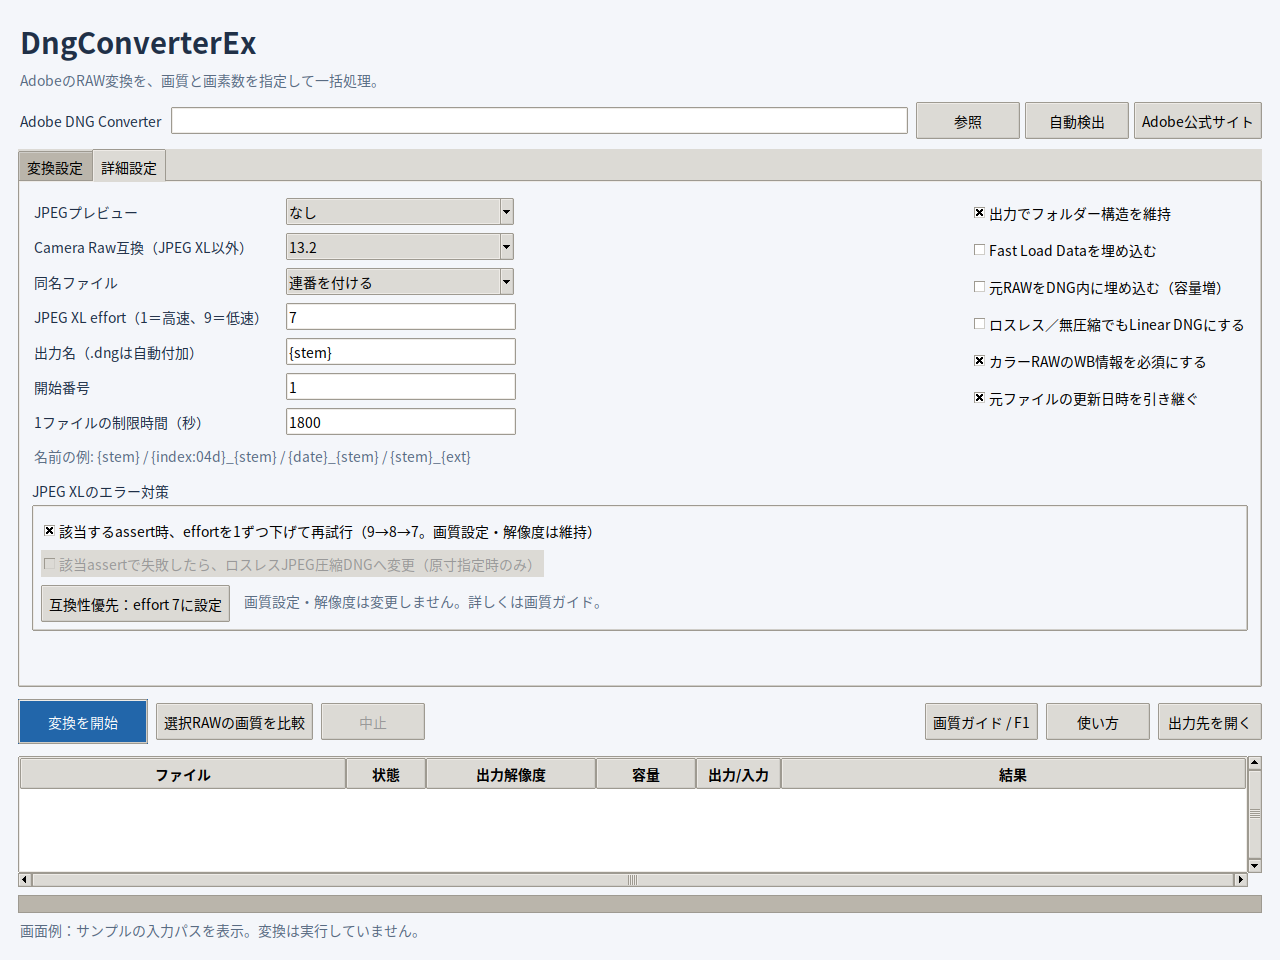
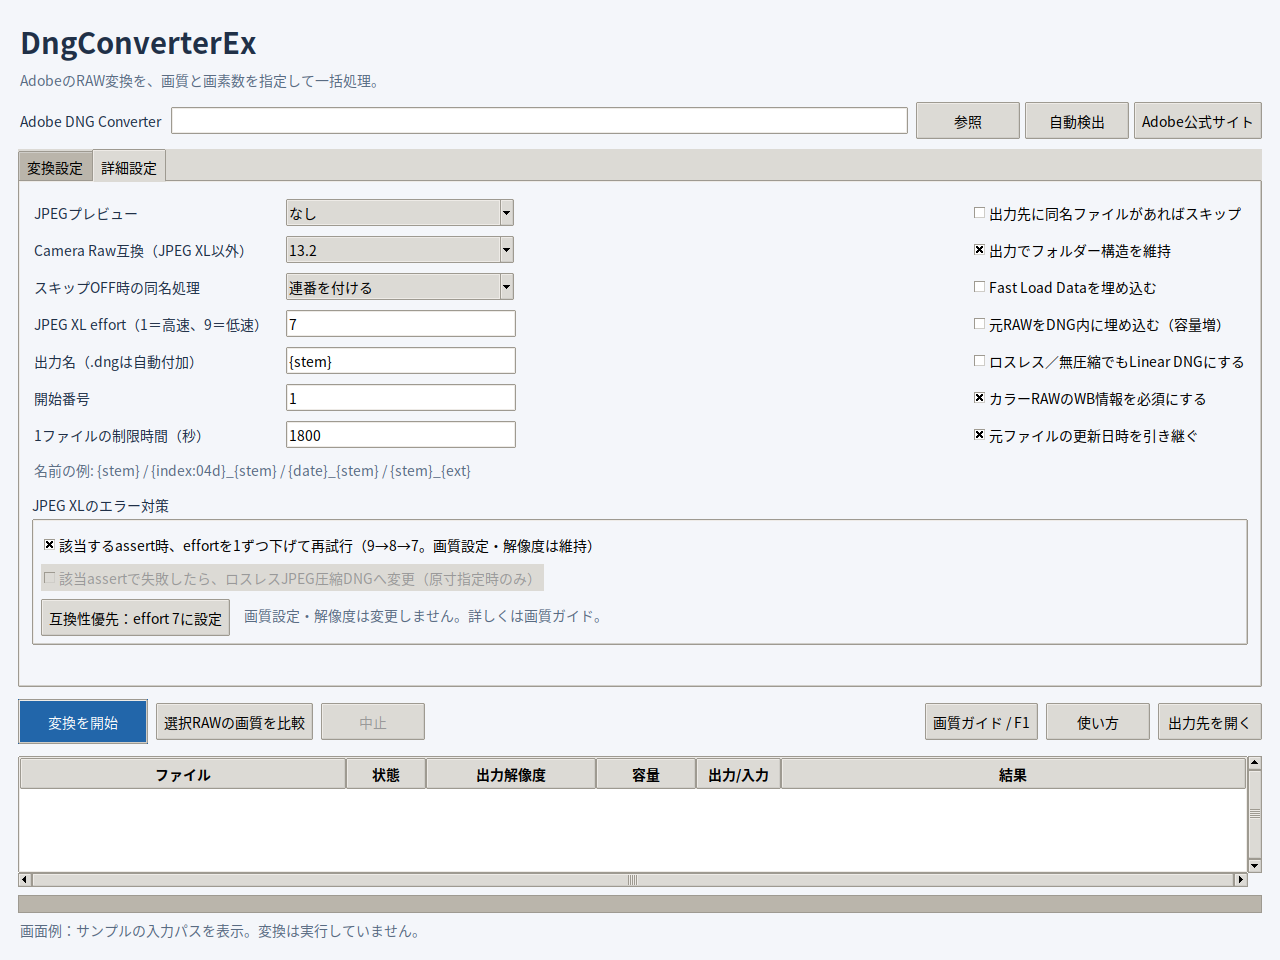
Add a checkbox to skip existing output files
Expose existing-output skipping in advanced settings. Preserve the selected rename/overwrite policy while skip is enabled, disable that selector, save the checkbox state, and migrate legacy skip preferences.

Update the offline guide, README and actual advanced-settings screenshot for v1.2.2. Verified 35 simulated conversion/metadata tests, including skipping without launching conversion and continuing the batch, plus actual Tkinter checkbox, preference and migration checks on Linux.

diff --git a/raw_to_dng/gui.py b/raw_to_dng/gui.py
@@ -84,6 +84,7 @@ class Application:
         self.linear = tk.BooleanVar(value=False)
         self.strict_wb = tk.BooleanVar(value=True)
         self.preserve_mtime = tk.BooleanVar(value=True)
+        self.skip_existing = tk.BooleanVar(value=False)
         self.jxl_retry = tk.BooleanVar(value=True)
         self.jxl_fallback = tk.BooleanVar(value=False)
         self.hint = tk.StringVar()
@@ -221,10 +222,13 @@ class Application:
         advanced.columnconfigure(1, weight=1)
         rows = (("JPEGプレビュー", self.preview, ("なし", "中サイズ", "全画素")),
                 ("Camera Raw互換（JPEG XL以外）", self.compatibility, COMPATIBILITIES),
-                ("同名ファイル", self.collision, ("連番を付ける", "スキップ", "上書き")))
+                ("スキップOFF時の同名処理", self.collision, ("連番を付ける", "上書き")))
         for row, (text, variable, values) in enumerate(rows):
             ttk.Label(advanced, text=text).grid(row=row, column=0, sticky="w", padx=(0, 16), pady=4)
-            self._combo(advanced, variable, values, 26).grid(row=row, column=1, sticky="w", pady=4)
+            widget = self._combo(advanced, variable, values, 26)
+            widget.grid(row=row, column=1, sticky="w", pady=4)
+            if variable is self.collision:
+                self.collision_widget = widget
         for row, (text, variable) in enumerate((("JPEG XL effort（1＝高速、9＝低速）", self.effort),
                                                ("出力名（.dngは自動付加）", self.name_template),
                                                ("開始番号", self.start_index), ("1ファイルの制限時間（秒）", self.timeout)), 3):
@@ -236,13 +240,18 @@ class Application:
         ttk.Label(advanced, text="名前の例: {stem} / {index:04d}_{stem} / {date}_{stem} / {stem}_{ext}", style="Muted.TLabel").grid(row=7, column=0, columnspan=2, sticky="w", pady=4)
         checks = ttk.Frame(advanced)
         checks.grid(row=0, column=2, rowspan=7, sticky="nw", padx=(40, 0))
-        for text, variable in (("出力でフォルダー構造を維持", self.preserve_folders),
+        for text, variable in (("出力先に同名ファイルがあればスキップ", self.skip_existing),
+                               ("出力でフォルダー構造を維持", self.preserve_folders),
                                ("Fast Load Dataを埋め込む", self.fast_load),
                                ("元RAWをDNG内に埋め込む（容量増）", self.embed_original),
                                ("ロスレス／無圧縮でもLinear DNGにする", self.linear),
                                ("カラーRAWのWB情報を必須にする", self.strict_wb),
                                ("元ファイルの更新日時を引き継ぐ", self.preserve_mtime)):
-            self._check(checks, text, variable).pack(anchor="w", pady=5)
+            widget = self._check(checks, text, variable)
+            widget.pack(anchor="w", pady=5)
+            if variable is self.skip_existing:
+                self.skip_existing_widget = widget
+                widget.configure(command=self._settings_changed)
 
         recovery = ttk.LabelFrame(advanced, text="JPEG XLのエラー対策", padding=8)
         recovery.grid(row=8, column=0, columnspan=3, sticky="ew", pady=(8, 0))
@@ -359,6 +368,7 @@ class Application:
         mode = self._selected_mode()
         jxl = mode == Mode.LOSSY_JXL
         if hasattr(self, "quality_widget"):
+            self.collision_widget.configure(state="disabled" if self.skip_existing.get() or self.busy else "readonly")
             self.quality_widget.configure(state="readonly" if jxl and not self.busy else "disabled")
             self.distance_widget.configure(state="normal" if jxl and not self.busy else "disabled")
             self.effort_widget.configure(state="normal" if jxl and not self.busy else "disabled")
@@ -388,7 +398,8 @@ class Application:
             long_edge=int(self.long_edge.get()) if self.resize.get() == "長辺で指定（px）" else None,
             preview={"なし": 0, "中サイズ": 1, "全画素": 2}[self.preview.get()],
             fast_load=self.fast_load.get(), embed_original=self.embed_original.get(), linear=self.linear.get(),
-            compatibility=self.compatibility.get(), collision={"連番を付ける": "rename", "スキップ": "skip", "上書き": "overwrite"}[self.collision.get()],
+            compatibility=self.compatibility.get(),
+            collision="skip" if self.skip_existing.get() else {"連番を付ける": "rename", "上書き": "overwrite"}[self.collision.get()],
             name_template=self.name_template.get(), timeout_seconds=float(self.timeout.get()),
             strict_wb=self.strict_wb.get(), preserve_mtime=self.preserve_mtime.get(),
             jxl_retry=self.jxl_retry.get(), jxl_fallback=self.jxl_fallback.get(),
@@ -564,6 +575,10 @@ class Application:
                     getattr(self, name).set(data[name])
             if self.mode.get() not in MODE_LABELS.values():
                 self.mode.set(MODE_LABELS[Mode.LOSSY_JXL])
+            if self.collision.get() == "スキップ":
+                # Migrate preferences saved before the dedicated checkbox existed.
+                self.skip_existing.set(True)
+                self.collision.set("連番を付ける")
         except (OSError, ValueError, TypeError, tk.TclError):
             pass
         if not self.converter.get():
@@ -577,7 +592,7 @@ class Application:
         return ("converter", "output", "mode", "quality", "distance", "effort", "resize", "megapixels", "long_edge", "preview",
                 "compatibility", "collision", "name_template", "start_index", "timeout", "recursive", "preserve_folders",
                 "include_dng", "fast_load", "embed_original", "linear", "strict_wb", "preserve_mtime",
-                "jxl_retry", "jxl_fallback")
+                "skip_existing", "jxl_retry", "jxl_fallback")
 
     def _save_settings(self) -> None:
         try:

diff --git a/scripts/capture_screenshots.py b/scripts/capture_screenshots.py
@@ -7,6 +7,7 @@ from __future__ import annotations
 
 import json
 import os
+from dataclasses import replace
 from pathlib import Path
 import sys
 import tempfile
@@ -71,6 +72,37 @@ def main() -> int:
                 capture(root, screenshots / "main.png")
                 app.notebook.select(1)
                 capture(root, screenshots / "advanced.png")
+                assert not app.skip_existing.get(), 'Existing output skip must default to OFF'
+                for label, policy in (('連番を付ける', 'rename'), ('上書き', 'overwrite')):
+                    app.collision.set(label)
+                    app.skip_existing_widget.invoke()
+                    assert app._collect_settings() == replace(before, collision='skip'), 'Skip checkbox was not applied'
+                    assert 'disabled' in app.collision_widget.state(), 'Skip must disable the alternate collision policy'
+                    app._set_busy(True)
+                    assert 'disabled' in app.skip_existing_widget.state(), 'Skip checkbox changed while busy'
+                    app._set_busy(False)
+                    assert 'disabled' in app.collision_widget.state(), 'Skip collision policy enabled after busy state'
+                    app.skip_existing_widget.invoke()
+                    assert app._collect_settings() == replace(before, collision=policy), 'Unchecked policy was not restored'
+                    assert 'disabled' not in app.collision_widget.state(), 'Unchecked collision policy is disabled'
+                app.skip_existing_widget.invoke()
+                app._save_settings()
+                saved = json.loads(settings_file.read_text(encoding='utf-8'))
+                assert saved['skip_existing'] and saved['collision'] == '上書き', 'Skip preference was not saved'
+                app.skip_existing.set(False)
+                app.collision.set('連番を付ける')
+                app._load_settings()
+                app._settings_changed()
+                assert app.skip_existing.get() and app.collision.get() == '上書き', 'Skip preference was not restored'
+                settings_file.write_text(json.dumps({'collision': 'スキップ'}, ensure_ascii=False), encoding='utf-8')
+                app.skip_existing.set(False)
+                app._load_settings()
+                app._settings_changed()
+                assert app.skip_existing.get() and app.collision.get() == '連番を付ける', 'Legacy skip preference was not migrated'
+                assert app._collect_settings() == replace(before, collision='skip'), 'Legacy skip policy was lost'
+                settings_file.unlink()
+                app.skip_existing_widget.invoke()
+                assert app._collect_settings() == before, 'Skip checks changed unrelated conversion settings'
                 assert 'disabled' in app.jxl_fallback_widget.state(), 'Resized outputs must disable fallback'
                 app.resize.set('原寸を維持')
                 app._settings_changed()
@@ -176,6 +208,9 @@ def main() -> int:
                                "help entry", "available while busy", "conversion settings unchanged", "no user preferences changed"],
                     "recovery_checks": ["effort 7 preset", "fallback disabled and cleared for resize", "lossless JXL effort disabled",
                                         "preferences save and restore", "controls disabled while busy", "stepwise retry progress", "retry completion"],
+                    "skip_checks": ["skip default OFF", "checkbox applies skip", "unchecked rename and overwrite restored",
+                                    "collision policy disabled while skip is ON", "skip disabled while busy",
+                                    "skip preference save and restore", "legacy skip preference migration", "unrelated settings unchanged"],
                     "adobe_conversion_run": False,
                 }, ensure_ascii=False, indent=2))
             finally:

diff --git a/tests/test_app.py b/tests/test_app.py
@@ -238,6 +238,42 @@ make_dng(dest, width=w, height=h, compression=compression, linear=lossy or '-l' 
     def history(self, job):
         return [json.loads(line) for line in job.source.path.with_suffix('.attempts.jsonl').read_text(encoding='utf-8').splitlines()]
 
+    def test_existing_output_skips_conversion_and_batch_continues(self):
+        jobs = self.jobs(['already.NEF', 'new.NEF'], Settings(collision='skip'))
+        self.output.mkdir()
+        existing = jobs[0].destination
+        existing.write_bytes(b'existing output unchanged')
+        stat = existing.stat()
+        results, report = run_batch(self.converter, jobs, self.output)
+        self.assertEqual([r.status for r in results], ['skipped', 'ok'])
+        self.assertEqual(results[0].attempts, [])
+        self.assertFalse(jobs[0].source.path.with_suffix('.attempts.jsonl').exists())
+        self.assertEqual(existing.read_bytes(), b'existing output unchanged')
+        self.assertEqual(existing.stat().st_mtime_ns, stat.st_mtime_ns)
+        self.assertFalse(existing.with_name('already_001.dng').exists())
+        self.assertEqual(len(self.history(jobs[1])), 1)
+        records = [json.loads(line) for line in report.read_text(encoding='utf-8').splitlines()]
+        self.assertEqual(records[1]['requested_settings']['collision'], 'skip')
+        self.assertEqual(records[-1]['skipped'], 1)
+        self.assertEqual(records[-1]['ok'], 1)
+
+    def test_existing_output_is_converted_when_skip_is_disabled(self):
+        for collision in ('rename', 'overwrite'):
+            with self.subTest(collision=collision):
+                job = self.jobs([f'{collision}.NEF'], Settings(collision=collision))[0]
+                self.output.mkdir(exist_ok=True)
+                job.destination.write_bytes(b'previous output')
+                result = self.converter.convert(job)
+                self.assertEqual(result.status, 'ok', result.message)
+                self.assertEqual(len(self.history(job)), 1)
+                self.assertTrue(Path(result.destination).is_file())
+                if collision == 'rename':
+                    self.assertEqual(job.destination.read_bytes(), b'previous output')
+                    self.assertNotEqual(Path(result.destination), job.destination)
+                else:
+                    self.assertEqual(Path(result.destination), job.destination)
+                    self.assertNotEqual(job.destination.read_bytes(), b'previous output')
+
     def test_assert_retry_preserves_distance_resolution_and_metadata(self):
         cases = [(effort, resolution) for effort in (8, 9)
                  for resolution in ({'megapixels': 24}, {'long_edge': 5000})]

diff --git a/raw_to_dng/help_content.py b/raw_to_dng/help_content.py
@@ -185,7 +185,13 @@ HELP_PAGES = (
         Paragraph("縦横比を維持し、拡大はしません。目標は上限で、整数寸法への丸めにより画素数は厳密には一致しない場合があります。"),
         Paragraph("結果行をダブルクリックすると、要求設定・成功時の設定・各試行の実行コマンドと検査情報を表示します。失敗したファイルを記録して次に進み、中止や制限時間超過では未完了の一時出力を破棄します。"),
         Paragraph("原本保護と動作対象", heading=True),
-        Paragraph("入力RAWを削除・変更しません。初期状態では同名出力に連番を付けます。Adobeの公式変換はWindows / macOSが対象で、LinuxでAdobeによるネイティブ変換を行う機能はありません。"),
+        Paragraph("入力RAWを削除・変更しません。初期状態では同名出力に連番を付けます。"),
+        Table(("既存の出力ファイル", "詳細設定での指定"), (
+            ("変換をスキップ", "「出力先に同名ファイルがあればスキップ」をON。既存ファイルを保持し、次の入力へ進む"),
+            ("連番付加／上書き", "チェックOFF（初期状態）で「スキップOFF時の同名処理」を選択"),
+            ("設定の保存", "チェック状態とOFF時の同名処理を保存。旧版のスキップ設定も引き継ぐ"),
+        ), (25, 75)),
+        Paragraph("Adobeの公式変換はWindows / macOSが対象で、LinuxでAdobeによるネイティブ変換を行う機能はありません。"),
         Paragraph("参考資料", heading=True),
         Paragraph("以下は公式資料とAdobe SDKの公開実装です。本文はオフラインで読めます。参考リンクを開くとブラウザーを使用します。"),
     )),

diff --git a/raw_to_dng/__init__.py b/raw_to_dng/__init__.py
@@ -1,3 +1,3 @@
 """DngConverterEx: an Adobe DNG Converter front end."""
 
-__version__ = "1.2.1"
+__version__ = "1.2.2"

diff --git a/CHANGELOG.md b/CHANGELOG.md
@@ -1,5 +1,12 @@
 # Changelog
 
+## 1.2.2
+
+- 詳細設定に「出力先に同名ファイルがあればスキップ」チェックボックスを追加しました。ONの場合は既存ファイルの変換を開始せず、次の入力へ進みます。初期状態はOFFです。
+- OFF時は同名処理の連番付加／上書きを使用します。ONの間は同名処理欄を無効化し、OFFに戻すと以前の選択を復元します。
+- チェック状態を保存し、旧版のスキップ設定も引き継ぎます。README・画質ガイド・詳細設定のスクリーンショットを更新しました。
+- 既存出力を変換せず保持すること、スキップ後も処理が続くこと、OFF時に変換することを模擬コンバーターで検証しました。
+
 ## 1.2.1
 
 - 対象のJPEG XL assertが続く場合、effortを1ずつ下げて再試行するよう変更しました。9開始は9→8→7、8開始は8→7で、成功した時点で終了します。
